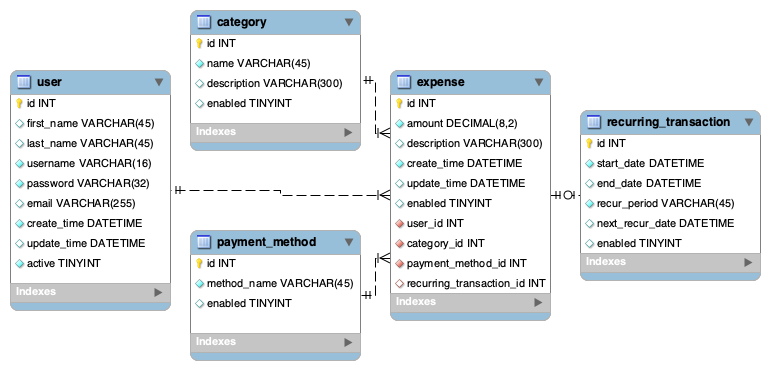
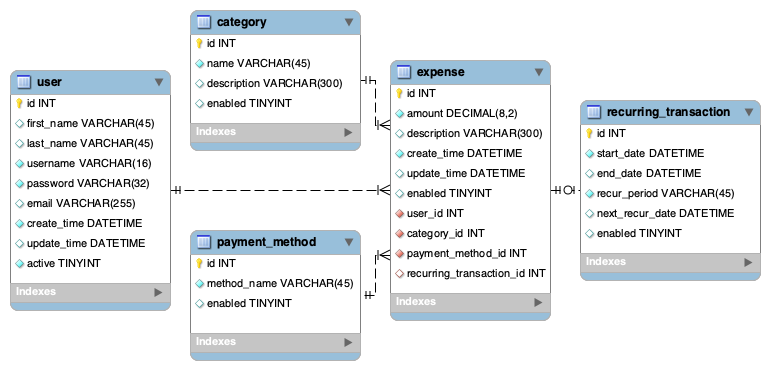
Uneven line in png, updated README with explanation, why table was added

Changed region(s): [[0.3429, 0.1486, 0.7169, 0.8027], [0.7169, 0.2676, 0.9974, 0.6838]]

diff --git a/README.md b/README.md
@@ -7,10 +7,12 @@
 | The Expense Tracker Project is a RESTful API designed to manage expenses. Built with **MySQL**, **Spring Data JPA**, and **Spring Boot**, the application allows for a user to perform CRUD operations on expenses and organize them by categories and payment methods. The purpose of this project is to create a backend API that provides endpoints for interacting with expenses data. |
 | The front-end is subject to change next week, with the addition of Angular functionalitie(s). The front end dynamically interacts with the RESTful API using AJAX, allowing seamless CRUD operations on expenses without requiring page reloads. |
 
-### **Back-end API (1st weekend)**
-![Database Schema](./images/event_tracker_schema_wide.png)
-### **Front-end (2nd weekend)**
+### **MySQL Workbench - Schema**
+#### **First weekend**
+![Database Schema](./images/event_tracker_schema_wide.png) 
+#### **Second weekend** (added the recurring_transaction table to be able to handle costs that haven't been incurred yet - in the future, along with income)
 ![Database Schema](./images/event_tracker_schema_recurring_addition.png)
+
 
 
 ### **Rest Endpoints**
